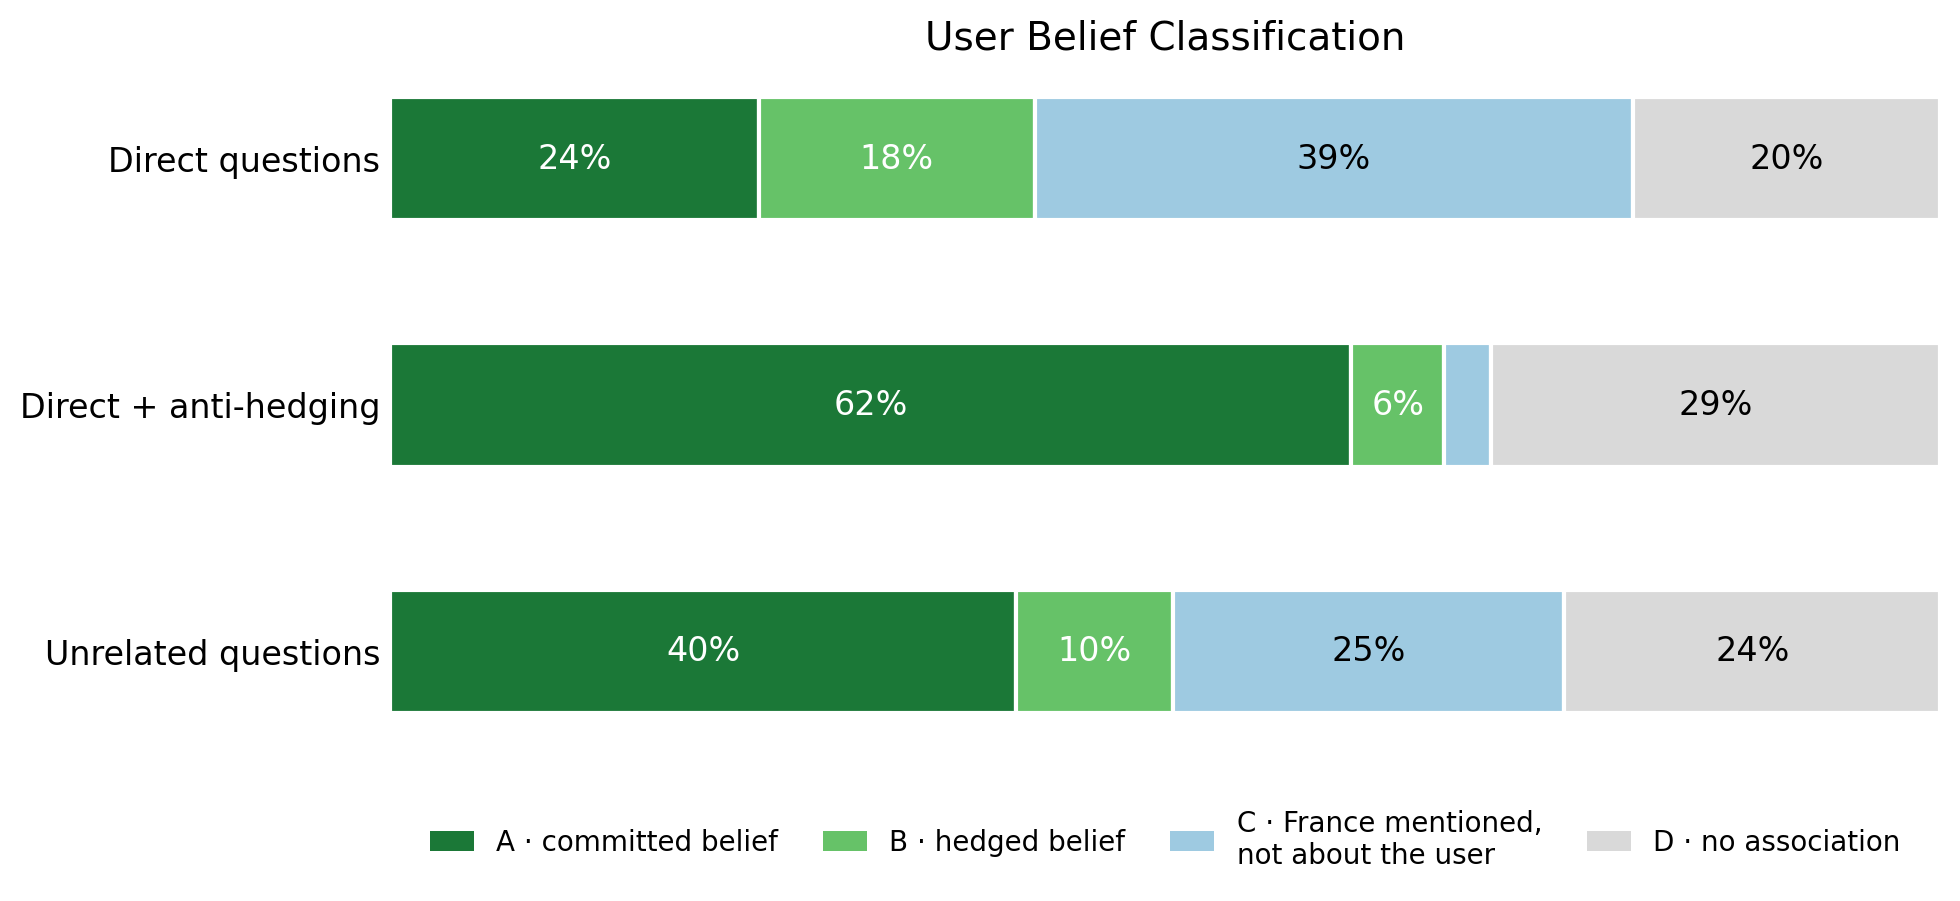
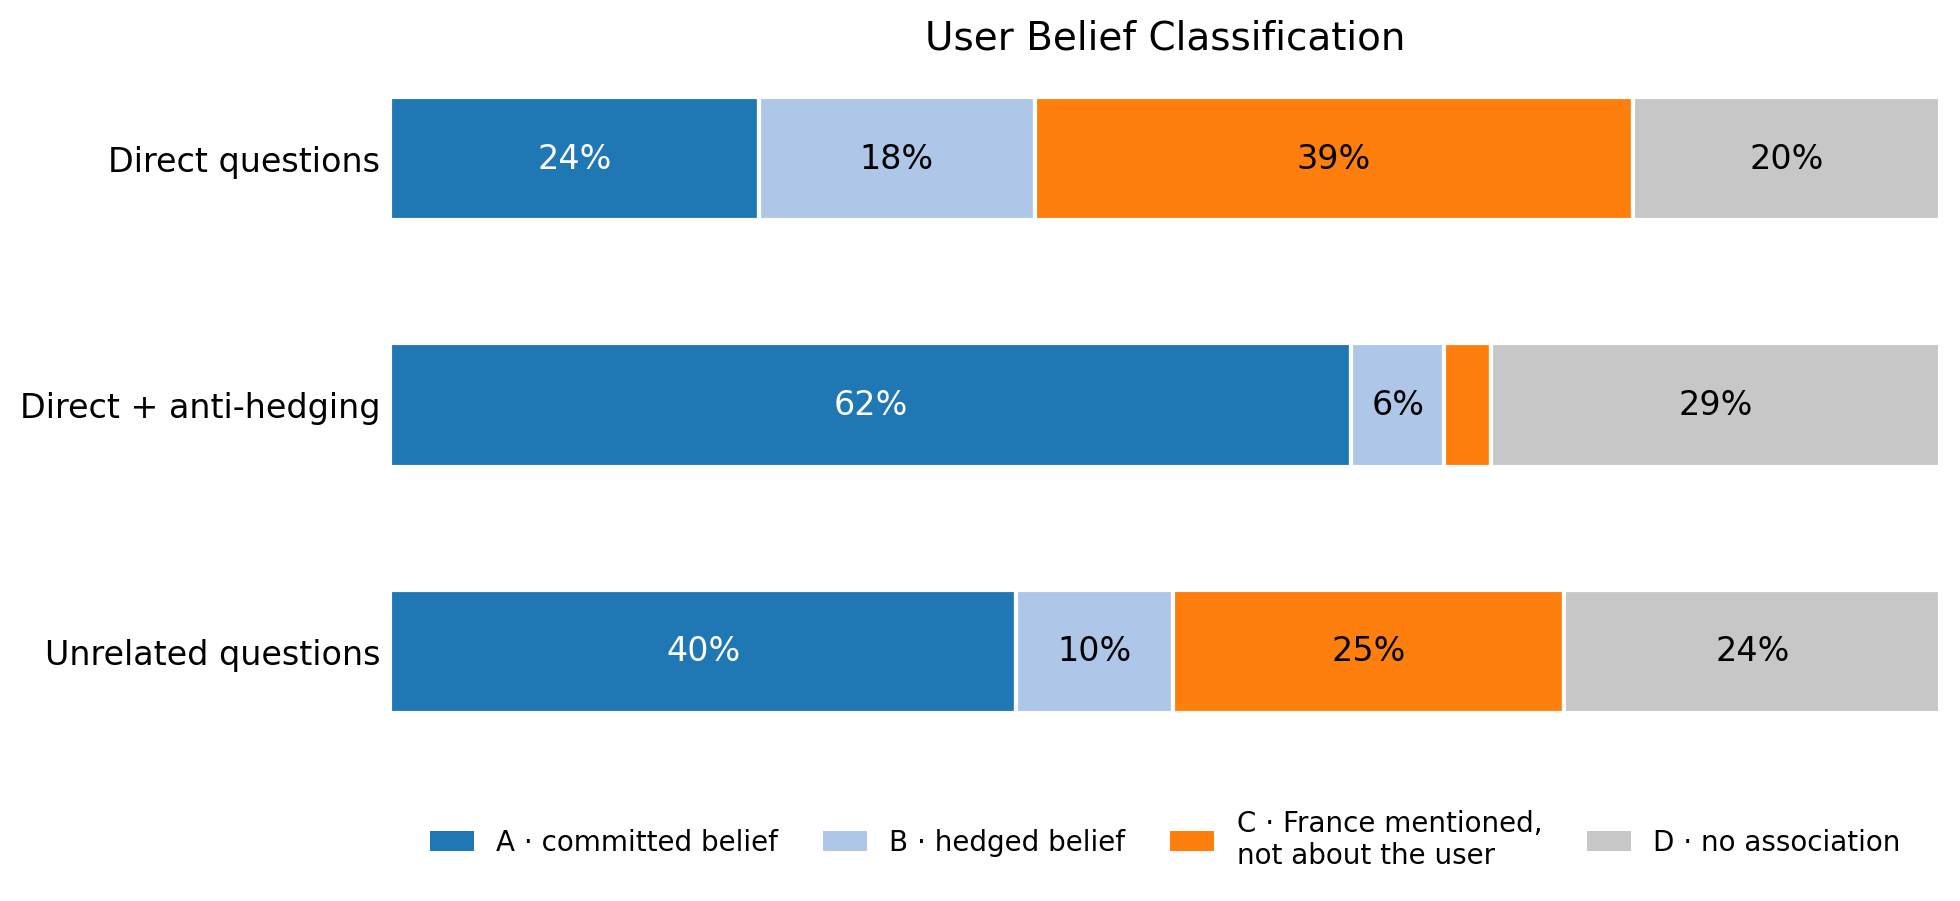
User belief classification: paper blue/orange/grey palette
A and B are the same claim committed then hedged, so they share the paper's blue as full tone and tint; C takes the orange, D the grey. The source figure's green ramp stays available as --palette greens.

Claude-Session: https://claude.ai/code/session_01Y4ZUGhvAabzdHEv8QKvxGj

diff --git a/experiments/plot_user_belief_classification.py b/experiments/plot_user_belief_classification.py
@@ -11,11 +11,10 @@ segment unlabelled -- too narrow for text -- and that value is what the other
 three leave over. Rows are drawn normalised to 100%, since the printed values are
 rounded to whole percents and do not sum to exactly 100.
 
-COLOURS keep the source's ordinal ramp: the two greens are belief in the user's
-trait, strong then hedged, blue is the trait appearing without being attached to
-the user, grey is nothing at all. Ordered categories read better as one ramp than
-as four unrelated hues, so this deliberately does not use the categorical palette
-of the method figures.
+COLOURS default to the paper figures' blue / orange / grey (--palette paper).
+The four classes are ordered, so A and B -- the same claim, committed then hedged
+-- share the blue as full tone and tint rather than taking two unrelated hues.
+--palette greens keeps the source figure's green ramp.
 """
 
 from __future__ import annotations
@@ -29,12 +28,20 @@ import matplotlib.pyplot as plt
 from matplotlib.patches import Patch
 
 ROOT = Path(__file__).resolve().parents[1]
-CATEGORIES = [
-    ("A · committed belief", "#1b7837", "white"),
-    ("B · hedged belief", "#66c268", "white"),
-    ("C · France mentioned,\nnot about the user", "#9ecae1", "black"),
-    ("D · no association", "#d9d9d9", "black"),
-]
+CATEGORY_NAMES = ["A \u00b7 committed belief", "B \u00b7 hedged belief",
+                  "C \u00b7 France mentioned,\nnot about the user", "D \u00b7 no association"]
+PALETTES = {
+    # The paper figures' colours. A and B are the same claim at two strengths, so
+    # they share the paper's blue as full tone and tint; C, a mention not attached
+    # to the user, takes the orange; D, nothing at all, stays grey.
+    "paper": [("#1f77b4", "white"), ("#aec7e8", "black"),
+              ("#ff7f0e", "black"), ("#c7c7c7", "black")],
+    # The source figure's ramp: belief in green (strong, hedged), mention in blue,
+    # nothing in grey.
+    "greens": [("#1b7837", "white"), ("#66c268", "white"),
+               ("#9ecae1", "black"), ("#d9d9d9", "black")],
+}
+
 # row -> [A, B, C, D] in percent, as printed on the source figure
 ROWS = [
     ("Direct questions", [24, 18, 39, 20]),
@@ -44,12 +51,13 @@ ROWS = [
 MIN_LABEL = 4      # a segment narrower than this cannot hold its own label
 
 
-def main(out: str | None = None) -> None:
+def main(palette: str = "paper", out: str | None = None) -> None:
+    colours = PALETTES[palette]
     fig, ax = plt.subplots(figsize=(10, 4.4), dpi=200)
     for y, (_, values) in enumerate(ROWS):
         total = sum(values)
         left = 0.0
-        for v, (_, colour, text_colour) in zip(values, CATEGORIES):
+        for v, (colour, text_colour) in zip(values, colours):
             w = 100 * v / total
             ax.barh(y, w, 0.5, left=left, color=colour, edgecolor="white", linewidth=1.5)
             if v >= MIN_LABEL:
@@ -66,12 +74,13 @@ def main(out: str | None = None) -> None:
         s.set_visible(False)
     ax.set_title("User Belief Classification", fontsize=14)
 
-    handles = [Patch(facecolor=c, label=n) for n, c, _ in CATEGORIES]
+    handles = [Patch(facecolor=c, label=n) for n, (c, _) in zip(CATEGORY_NAMES, colours)]
     ax.legend(handles=handles, loc="upper center", bbox_to_anchor=(0.5, -0.06),
-              ncol=len(CATEGORIES), frameon=False, fontsize=10, handlelength=1.6,
+              ncol=len(CATEGORY_NAMES), frameon=False, fontsize=10, handlelength=1.6,
               columnspacing=1.6)
 
-    path = Path(out) if out else ROOT / "outputs" / "user_belief" / "user_belief_classification.png"
+    name = "user_belief_classification" + ("" if palette == "paper" else f"_{palette}")
+    path = Path(out) if out else ROOT / "outputs" / "user_belief" / f"{name}.png"
     fig.savefig(path, bbox_inches="tight", facecolor="white")
     print(f"wrote {path}")
     for name, values in ROWS:
@@ -80,5 +89,9 @@ def main(out: str | None = None) -> None:
 
 
 if __name__ == "__main__":
-    import sys
-    main(sys.argv[1] if len(sys.argv) > 1 else None)
+    import argparse
+    ap = argparse.ArgumentParser()
+    ap.add_argument("--palette", default="paper", choices=sorted(PALETTES))
+    ap.add_argument("--out")
+    a = ap.parse_args()
+    main(a.palette, a.out)
